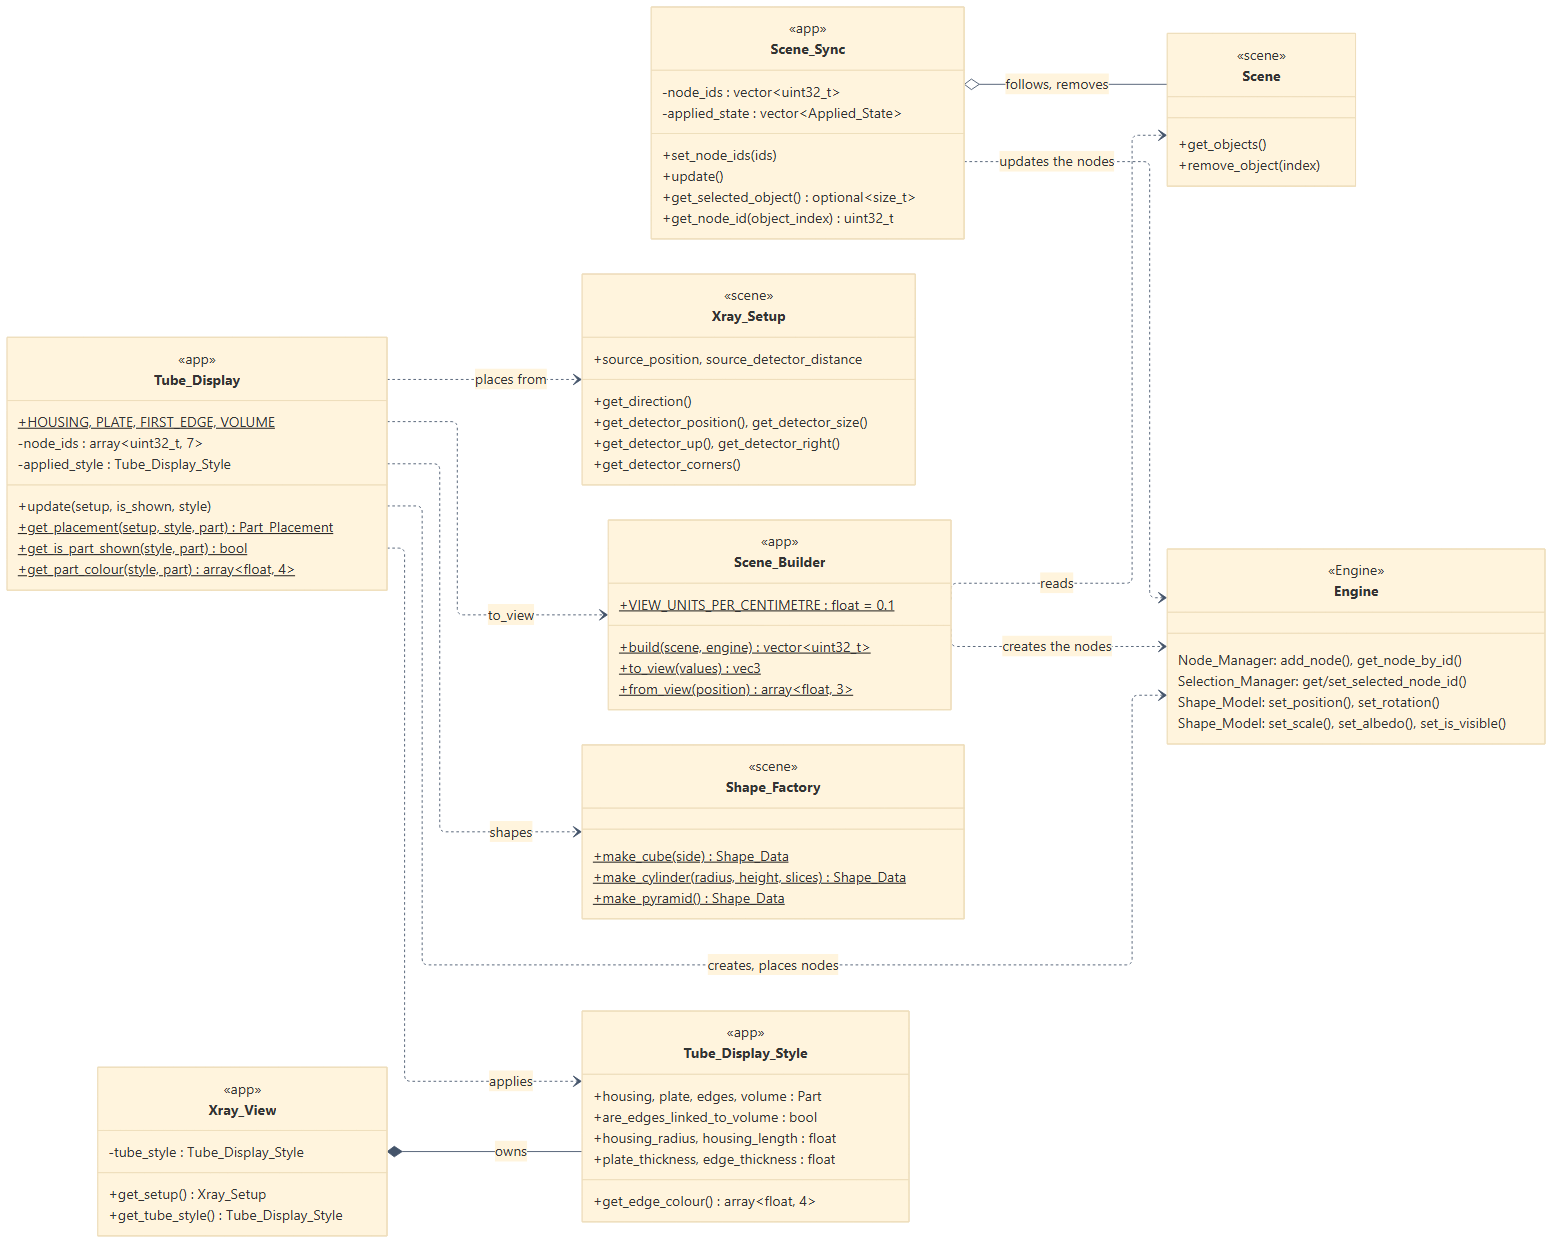
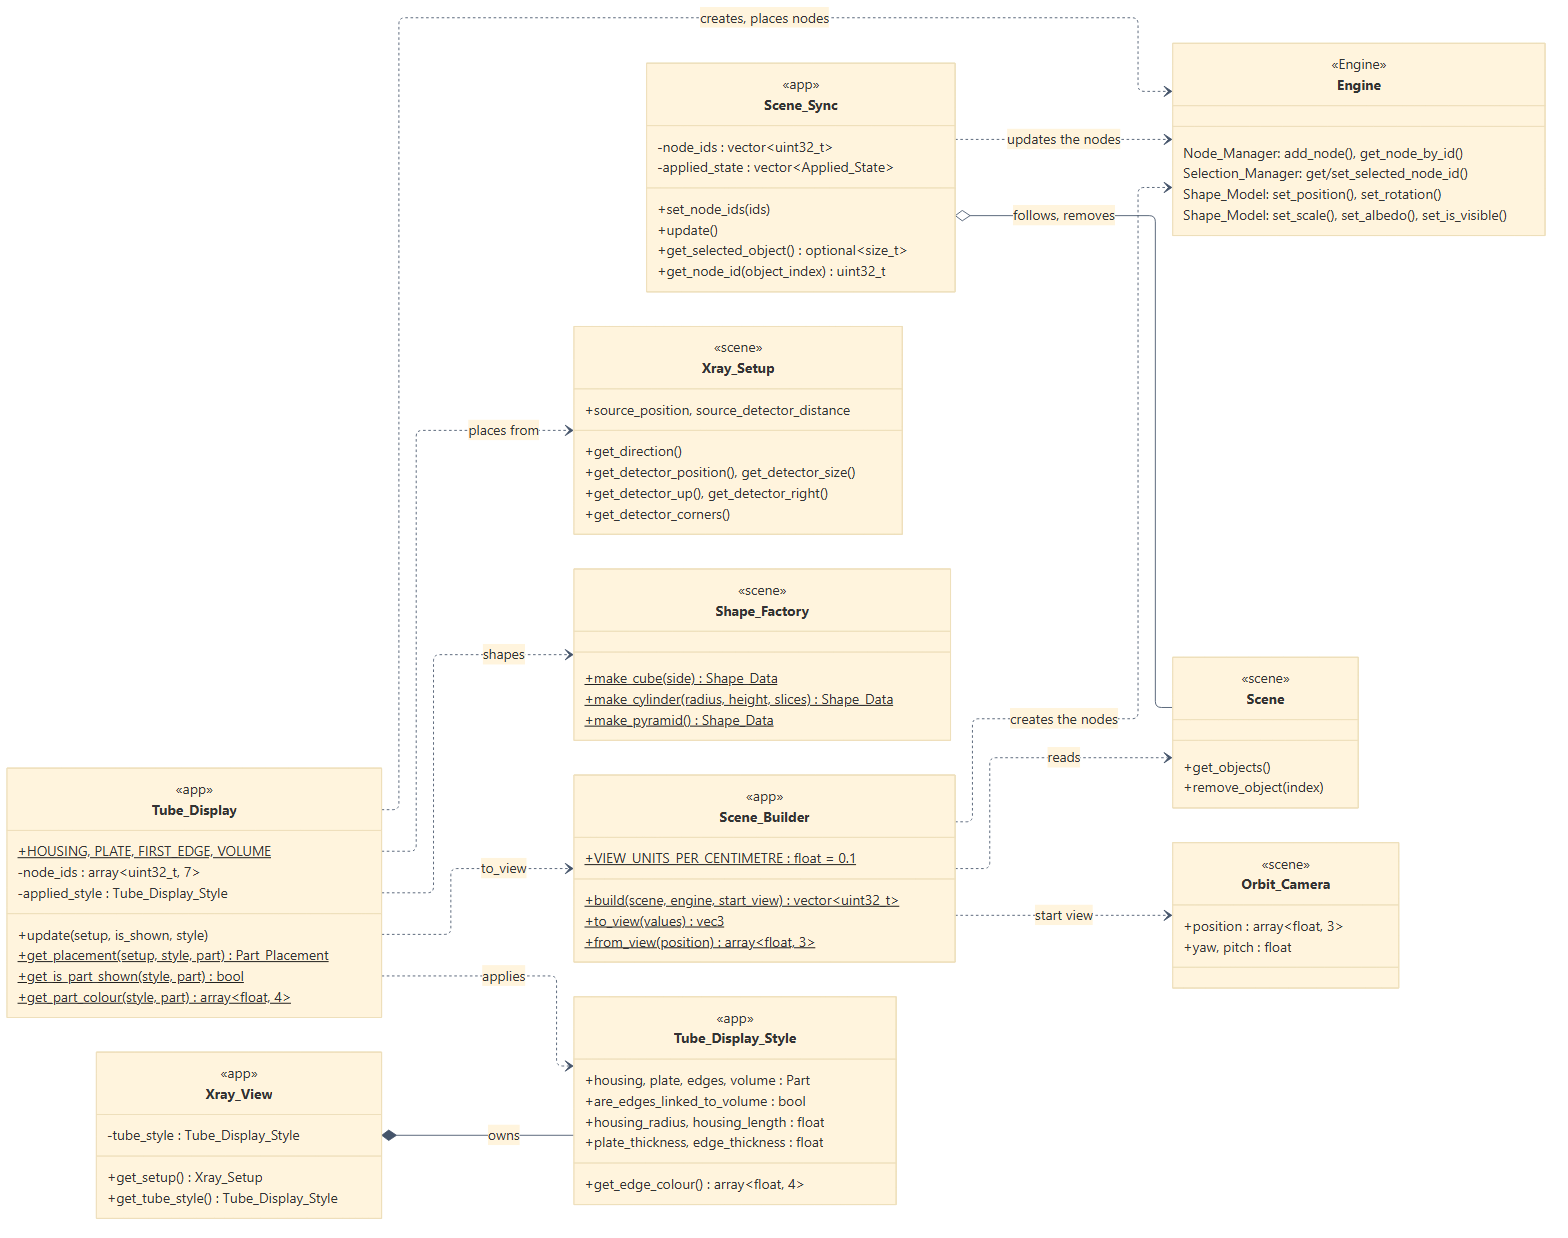
Show the Whole X-ray Setup in the README and Update the Documents and Diagrams
The main capture of the README now shows the whole X-ray setup, started with the --view option. The diagrams, charts, and documents are brought up to date with the current code and history.

Summary:
- A new main capture: the tube, the beam, the four objects, and the detector plate, with the X-ray image and its setup beside them; the two window captures come from the same frame.
- The UML diagrams show the start view, and the charts show the merges up to 25 November.
- Statements of the documents that were out of date are corrected.

Changes:
- README.md:
  - The caption of the main capture says how the view is set and what it shows.
  - The Status section mentions --view, and the gVirtualXRay copy is called gVXR.
- docs/images/gui/: replaced main_window.png, xray_window.png, and xray_setup_window.png.
- docs/diagrams/uml/:
  - architecture_overview and app_module: added parse_view to main; app_module also adds Orbit_Camera::look_at and the dependency of main on Orbit_Camera.
  - scene_module: added Orbit_Camera::look_at with its two limits.
  - scene_views: the start view in Scene_Builder::build, with Orbit_Camera as a new reference block.
- docs/diagrams/chronology/:
  - simulator_gantt_prototype: now from 5 to 25 November, with bars for the start view, the frame, data, and dependency diagrams with the charts, and the README badges and captures.
[…]

Changed region(s): [[0.2812, 0.0, 1.0, 0.9822], [0.0, 0.2456, 0.2812, 0.8288], [0.0625, 0.8595, 0.25, 0.9822]]

diff --git a/README.md b/README.md
@@ -15,7 +15,7 @@ It allows radiology professionals and students to test X-ray scanning and imagin
 
 ![The main window of the simulator](docs/images/gui/main_window.png)
 
-*The main window with the default scene: the Engine's 3D view of the objects (a water sphere, an aluminium cube, and a bone cylinder; the iron sphere is behind the setup window) with the X-ray tube and the edges of its beam, and, on the right, the X-ray image and its setup.*
+*The main window with the default scene, started with `--view -130 66 103 51 3 12` (see the [build instructions](docs/build_instructions.md#building-and-running)). The Engine's 3D view shows the whole X-ray setup: the tube, the beam with its edges, the four objects (a water sphere, an aluminium cube, a bone cylinder, and a small iron sphere), and the detector plate. On the right are the X-ray image and its setup.*
 
 | X-ray image | X-ray setup |
 |---|---|
@@ -27,7 +27,7 @@ The captures were taken on a virtual display with software OpenGL (Mesa), so the
 ## Repository Structure
 
 - `engine/`: Git submodule with the [OpenGL graphics engine](https://github.com/emartg/opengl-graphics-engine) (`Engine::Core` and `Engine::Platform`).
-- `gvirtual-xray/`: Git submodule with the [fork of gVirtualXRay](https://github.com/emartg/gvirtual-xray) that computes the X-ray images.
+- `gvirtual-xray/`: Git submodule with [gVXR](https://github.com/emartg/gvirtual-xray), a downstream copy of gVirtualXRay, which computes the X-ray images.
 - `src/`: the code of the simulator, which connects both: the application (`src/app`), the description of the scenes, the materials, and the X-ray setup (`src/scene`), the conversion of an X-ray image to grey values (`src/display`), and the library that adapts gVirtualXRay (`src/xray`).
 - `tests/`: the tests of the simulator's libraries and of its build.
 - `cmake/`: the vcpkg triplets of the MinGW presets and of the continuous integration, and the check that the submodules are at the commits that the repository records.
@@ -49,10 +49,10 @@ If the repository was cloned without `--recurse-submodules`, run `git submodule 
 
 ## Status
 
-Early prototype. The simulator is built on the engine and on gVirtualXRay, and it already connects them: it shows a scene of simple shapes (a sphere of water, a rotated cube of aluminium, a cylinder of bone, and a small sphere of iron) drawn by the engine, and the X-ray image of the same scene, which gVirtualXRay computes. The image is shown in a window beside the normal view, or as the whole window. A second window sets the energy of the beam, the position of the X-ray tube and where it points (the detector follows the beam, at a distance that can be set, and can be turned about it), and the number of pixels and the pixel size of the detector, and the image is computed again when a value changes. These controls, like the ones of the objects, are free geometry: their limits only keep the scene valid and are not tied to a medical limit. The normal view also shows the X-ray tube, the detector plate at its real size, and the edges and the volume of the beam, which follow the setup; each of them can be hidden, coloured, and made transparent, and their sizes changed. The mouse moves the camera of the normal view: a drag with the right button turns it about the selected object (or about the centre of the scene when nothing is selected), a drag with the middle button moves it across the view, and the wheel brings it closer or farther. A click on an object in the normal view selects it, and the `Scene` window then shows its data and lets you change its material and its position, rotation, and scale, which the X-ray image follows. The scale of the image can be linear or logarithmic, and negative, and the image can be seen from the detector (looking back at the source, as the first 3D view looks) or from the source (looking along the beam, the mirror image).
+Early prototype. The simulator is built on the engine and on gVirtualXRay, and it already connects them: it shows a scene of simple shapes (a sphere of water, a rotated cube of aluminium, a cylinder of bone, and a small sphere of iron) drawn by the engine, and the X-ray image of the same scene, which gVirtualXRay computes. The image is shown in a window beside the normal view, or as the whole window. A second window sets the energy of the beam, the position of the X-ray tube and where it points (the detector follows the beam, at a distance that can be set, and can be turned about it), and the number of pixels and the pixel size of the detector, and the image is computed again when a value changes. These controls, like the ones of the objects, are free geometry: their limits only keep the scene valid and are not tied to a medical limit. The normal view also shows the X-ray tube, the detector plate at its real size, and the edges and the volume of the beam, which follow the setup; each of them can be hidden, coloured, and made transparent, and their sizes changed. The mouse moves the camera of the normal view: a drag with the right button turns it about the selected object (or about the centre of the scene when nothing is selected), a drag with the middle button moves it across the view, and the wheel brings it closer or farther; the option `--view` sets where it starts. A click on an object in the normal view selects it, and the `Scene` window then shows its data and lets you change its material and its position, rotation, and scale, which the X-ray image follows. The scale of the image can be linear or logarithmic, and negative, and the image can be seen from the detector (looking back at the source, as the first 3D view looks) or from the source (looking along the beam, the mirror image).
 
 The simulator is built and tested on Linux (GCC and Clang) and on Windows (MinGW and MSVC), and CMake checks that the two submodules are at the commits that the repository records. Next is a first pre-release (v0.1.0). The medical features (exam types, patients, exposure, image quality, dose, and exercises) are not designed yet. See [docs/build_instructions.md](docs/build_instructions.md) to build and run it.
 
 ## Assets and Credits
 
-The third-party libraries and resources of the simulator are credited, with their authors, sources, and licenses, in [docs/sources.md](docs/sources.md). The engine and the gVirtualXRay fork have their own files: [engine/docs/sources.md](https://github.com/emartg/opengl-graphics-engine/blob/main/docs/sources.md) and [gvirtual-xray/docs/sources.md](gvirtual-xray/docs/sources.md).
+The third-party libraries and resources of the simulator are credited, with their authors, sources, and licenses, in [docs/sources.md](docs/sources.md). The engine and gVXR have their own files: [engine/docs/sources.md](https://github.com/emartg/opengl-graphics-engine/blob/main/docs/sources.md) and [gvirtual-xray/docs/sources.md](gvirtual-xray/docs/sources.md).

diff --git a/docs/build_instructions.md b/docs/build_instructions.md
@@ -4,7 +4,7 @@ This document explains how to build and run the simulator (`XRSim`). The simulat
 subdirectory, so the details of the prerequisites, the dependencies of the engine, and the troubleshooting of
 the platforms are in the [engine's build instructions](../engine/docs/build_instructions.md); this document
 only covers what is specific to this repository. The simulator also builds the core library of the
-gVirtualXRay fork (the X-ray part, option `XRSIM_BUILD_XRAY`, on by default with every compiler: GCC, Clang, MinGW, and MSVC). On
+gVXR submodule, the copy of gVirtualXRay (the X-ray part, option `XRSIM_BUILD_XRAY`, on by default with every compiler: GCC, Clang, MinGW, and MSVC). On
 Linux its dependencies are the system packages, and on Windows they are built by vcpkg, like the engine's.
 
 ## Prerequisites
@@ -134,7 +134,7 @@ ctest --test-dir out/build/vs2026-msvc-debug -C Debug --output-on-failure --no-t
 
 ## Code Formatting
 
-The code of `src/` is formatted with clang-format 23.1.1, using the `.clang-format` of the repository. The submodules are excluded (`.clang-format-ignore`). To check the formatting:
+The code of `src/` and `tests/` is formatted with clang-format 23.1.1, using the `.clang-format` of the repository. The submodules are excluded (`.clang-format-ignore`). To check the formatting:
 
 ```
 git ls-files '*.c' '*.cpp' '*.h' '*.hpp' | xargs clang-format --style=file --dry-run --Werror
@@ -147,7 +147,7 @@ The workflow `.github/workflows/ci.yml` runs on every push to `main` and on ever
 - **Format:** the clang-format check above.
 - **Submodules:** every build job checks out the Engine and gVirtualXRay at the recorded commits; that step stops after 10 minutes, so a clone that hangs on the network fails the job soon, and "Re-run failed jobs" runs it again.
 - **Linux:** the `ninja-gcc-debug` and `ninja-clang-release` presets, with the system packages; it builds and runs the tests under a virtual display (Xvfb) with Mesa's software OpenGL 4.5 renderer.
-- **Windows:** the `ninja-msvc-debug` and `mingw-gcc-vcpkg-release` presets, with the dependencies built by vcpkg (stored in a binary cache, with the triplets `x64-windows-ci` and `x64-mingw-dynamic-ci` of `cmake/vcpkg_triplets`, which leave the compiler out of the ABI hash of the packages so that a new build of the compiler in the runner image does not discard the cache; `x64-windows-ci` is also the host triplet, so it does the same for the tools that vcpkg builds for itself; a compiler upgrade does not rebuild a package in the CI, because the key of the cache has the versions of the compiler, of CMake, and of PowerShell (the hash of every package has them); the summary of each job shows how many packages vcpkg restored and the entries of the hash of `zlib` and `vcpkg-cmake`: if the cache does not restore, the entry that differs between two runs is the cause); it builds and runs only the tests that need no display (the invalid argument test, the unit tests of the scene, the setup, the display, and the pin guard, and the adapter test, because the X-ray part is built in every job), since the runners do not support OpenGL 4.5.
+- **Windows:** the `ninja-msvc-debug` and `mingw-gcc-vcpkg-release` presets, with the dependencies built by vcpkg (stored in a binary cache, with the triplets `x64-windows-ci` and `x64-mingw-dynamic-ci` of `cmake/vcpkg_triplets`, which leave the compiler out of the ABI hash of the packages so that a new build of the compiler in the runner image does not discard the cache; `x64-windows-ci` is also the host triplet, so it does the same for the tools that vcpkg builds for itself; a compiler upgrade does not rebuild a package in the CI, because the key of the cache has the versions of the compiler, of CMake, and of PowerShell (the hash of every package has them); the summary of each job shows how many packages vcpkg restored and the entries of the hash of `zlib` and `vcpkg-cmake`: if the cache does not restore, the entry that differs between two runs is the cause); it builds and runs only the tests that need no display (the invalid argument test, the unit tests of the scene, the setup, the camera, the display, and the pin guard, and the adapter test, because the X-ray part is built in every job), since the runners do not support OpenGL 4.5.
 
 ## Troubleshooting
 

diff --git a/CHANGELOG.md b/CHANGELOG.md
@@ -36,6 +36,7 @@ The format is based on [Keep a Changelog](https://keepachangelog.com/en/1.1.0/),
 - The UML diagrams of the simulator, drawn from the code as a hierarchy (`docs/diagrams/uml/`): the architecture overview (the four modules and the Engine and gVirtualXRay that they use), and one diagram for each block of it: the app module, the scene views (the Engine's nodes of the scene and of the tube display), the scene module, the xray module (the adapter and the interface of the X-ray library), and the display module; each is a Mermaid source with its image, listed in the index of the diagrams, and the README links the overview.
 - Three diagrams of how the simulator works, drawn from the code: one frame of the Engine's main loop and where the simulator acts in it (`docs/diagrams/sequence/frame`), the data from the scene and the X-ray setup to the 3D view and to the X-ray image, with their units (`docs/diagrams/data_flow/scene_to_image`), and the CMake targets with the libraries and packages that they link (`docs/diagrams/dependencies/dependencies_and_packages`); they are listed in the index of the diagrams.
 - The chronograms of the simulator (`docs/diagrams/chronology/`): a timeline of its development and two gantt charts of the merges (25 September to 29 October, and 5 to 24 November 2026), kept by hand.
+- The README's main capture now shows the whole X-ray setup (started with `--view`), and the three captures come from one frame of the current code. The UML diagrams of the app module, the scene views, the scene module, and the overview show the start view; the charts show the merges up to 25 November; and the documents call the gVirtualXRay copy gVXR, list the camera test among the Windows tests of the CI, and say that `tests/` is formatted too.
 - The command-line option `--view X Y Z TX TY TZ`, which places the camera of the 3D view at the start, at a position looking at a point (in centimetres), so that a view can be set, and taken again, without the mouse. `Orbit_Camera::look_at` computes the camera from the two points and refuses a view that it cannot take (`Orbit_Camera_Test`).
 - A row of badges under the title of the README (the C++ standard, the OpenGL version, the CI, the CMake version, the licence, and the versions of the Engine and of gVirtualXRay that the submodules pin), and a `Screenshots` section with three captures of the program (`docs/images/gui/`: the main window, the X-ray window, and the X-ray setup window), each with a caption.
 

diff --git a/docs/diagrams/README.md b/docs/diagrams/README.md
@@ -24,7 +24,7 @@ The images are regenerated and reviewed whenever a release is about to come out,
 | The dependencies and packages | [dependencies/dependencies_and_packages.mmd](dependencies/dependencies_and_packages.mmd) | [dependencies/dependencies_and_packages.png](dependencies/dependencies_and_packages.png) | The CMake targets of the simulator (`XRSim` and its three libraries), the targets of the Engine and of gVirtualXRay that they link, and the packages that gVirtualXRay links in the simulator's configuration, each with where it comes from (vcpkg or system, a system library, or bundled); every arrow reads "links to", and the dotted one is private |
 | The timeline of the simulator | [chronology/simulator_timeline.mmd](chronology/simulator_timeline.mmd) | [chronology/simulator_timeline.png](chronology/simulator_timeline.png) | The development of the simulator by month, from the architecture analysis (est.) to the last merge, named by the work done, with what is planned without dates |
 | The foundations (gantt) | [chronology/simulator_gantt_foundations.mmd](chronology/simulator_gantt_foundations.mmd) | [chronology/simulator_gantt_foundations.png](chronology/simulator_gantt_foundations.png) | The groups of merges from 25 September (est.) to 29 October 2026, by area |
-| The prototype (gantt) | [chronology/simulator_gantt_prototype.mmd](chronology/simulator_gantt_prototype.mmd) | [chronology/simulator_gantt_prototype.png](chronology/simulator_gantt_prototype.png) | The groups of merges from 5 to 24 November 2026, by area; the diagrams and the release get their bars when they are merged |
+| The prototype (gantt) | [chronology/simulator_gantt_prototype.mmd](chronology/simulator_gantt_prototype.mmd) | [chronology/simulator_gantt_prototype.png](chronology/simulator_gantt_prototype.png) | The groups of merges from 5 to 25 November 2026, by area; the release gets its bar when it is merged |
 
 Each diagram gets its line here when it is added. An image that has no source yet would be listed in `pending_sources.txt` (one path per line, relative to this folder), which the check accepts; the simulator has no such image, so the file does not exist.
 

diff --git a/docs/sources.md b/docs/sources.md
@@ -10,7 +10,7 @@ folder.
 | Repository | File | What it credits |
 |---|---|---|
 | The engine (`engine/`) | [engine/docs/sources.md](https://github.com/emartg/opengl-graphics-engine/blob/main/docs/sources.md) | GLFW, GLM, Assimp, nlohmann/json, GoogleTest, Dear ImGui, ImGuiFileDialog, stb_image, glad, the Roboto Mono fonts, and the engine's placeholder assets |
-| The gVirtualXRay fork (`gvirtual-xray/`) | [gvirtual-xray/docs/sources.md](../gvirtual-xray/docs/sources.md) | The gVirtualXRay project and its developers, xraylib, XrayPhysics, glad, GLEW, Assimp, zlib, and the other libraries of its build, the Welsh dragon mesh, and its other resources |
+| gVXR (`gvirtual-xray/`) | [gvirtual-xray/docs/sources.md](../gvirtual-xray/docs/sources.md) | The gVirtualXRay project and its developers, xraylib, XrayPhysics, glad, GLEW, Assimp, zlib, and the other libraries of its build, the Welsh dragon mesh, and its other resources |
 | The simulator (this repository) | This file | Whatever the simulator adds itself (below) |
 
 The simulator is built on those two projects, which are credited in full in their own files: the engine
